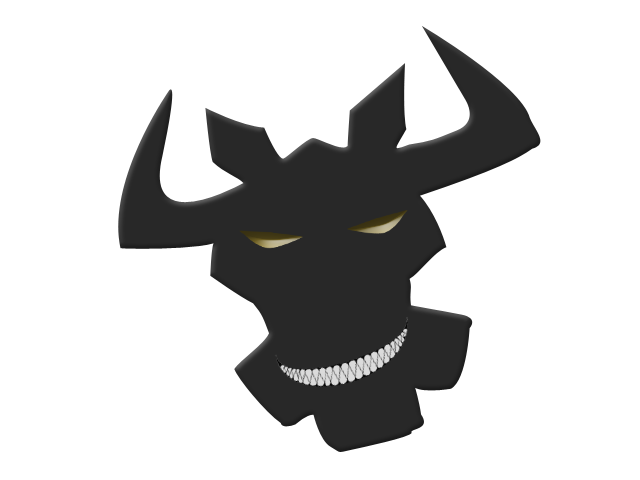
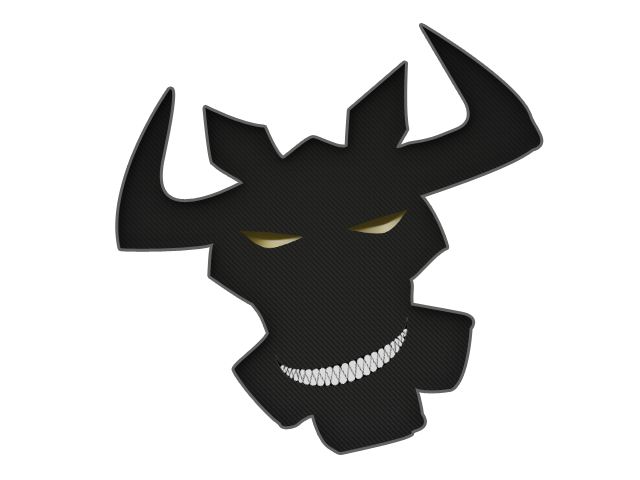
FrontEnd backgrounds

diff --git a/css/custom.css b/css/custom.css
@@ -11,7 +11,9 @@ body{
 
 /* Home CSS */
 .plein{
-  background-color: #BCA33C;
+  background-image: url('img/background-acc.jpg');
+  background-size: cover;
+  background-repeat: repeat;
   text-align: center;
   position: absolute;
   z-index: -1;
@@ -19,15 +21,15 @@ body{
   height: 100vh;
 }
 .plein a{
-  margin-top: 35vh;
+  margin-top: 25vh;
   display: inline-block;
 }
 .plein h3{
   font-family: 'Ranga', cursive;
 }
 .plein img{
-  width: 50%;
-  height: 50%;
+  width: 70%;
+  height: 70%;
 }
 .home{
   height: 100vh;
@@ -39,11 +41,13 @@ body{
   font-family: 'Ranga', cursive;
 }
 .left{
-  background-color: #BCA33C;
+  background-image: url('img/background-acc.jpg');
+  background-size: cover;
   transform: translateY(-100%);
 }
 .right{
-  background-color: #282828;
+  background-image: url('img/background-accd.jpg');
+  background-size: cover;
   transform: translateY(-100%);
   color: #BCA33C;
 }
